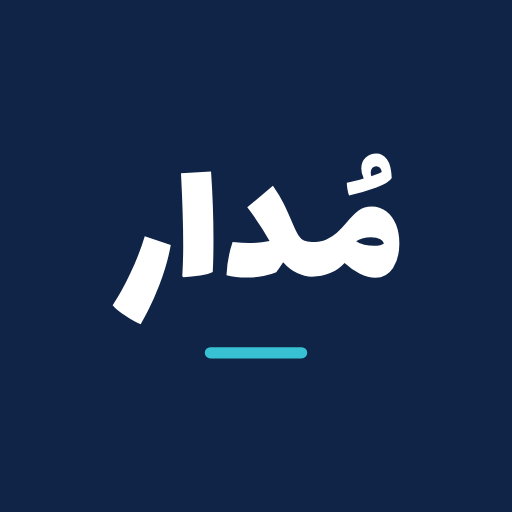
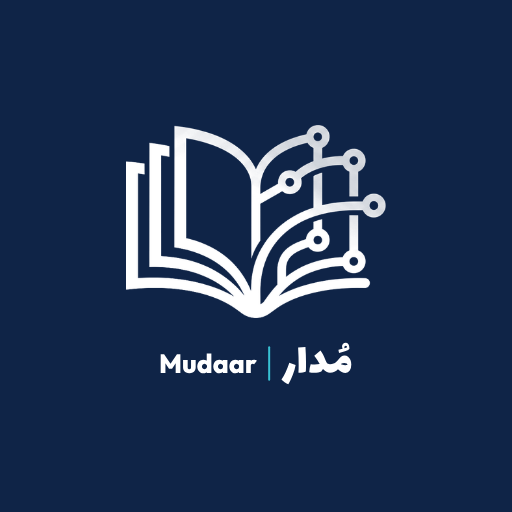
أيقونة التطبيق: الكتاب على كحلي، واسم المدرسة تحت الأيقونة
- أيقونة واحدة للتطبيقين (الكتاب وتحته مُدار | Mudaar)
- api/manifest.js: ملف التطبيق يتولّد حسب المدرسة (اسمها المختصر تحت الأيقونة)
- الآيفون: apple-mobile-web-app-title باسم المدرسة
- رابط التثبيت بقائمة الحساب يحمل معرّف المدرسة

Claude-Session: https://claude.ai/code/session_015Pb3w3Nfyxk8ErgHtgh7kQ

Changed region(s): [[0.2188, 0.2188, 0.7812, 0.6562], [0.3125, 0.6562, 0.6875, 0.75]]

diff --git a/install.html b/install.html
@@ -5,9 +5,11 @@
 <meta name="viewport" content="width=device-width, initial-scale=1.0, viewport-fit=cover" />
 <title>تثبيت مُدار</title>
 <link rel="manifest" id="app-manifest" href="manifest-staff.json">
+<meta name="apple-mobile-web-app-capable" content="yes">
+<meta name="apple-mobile-web-app-title" id="apple-title" content="مُدار">
 <meta name="theme-color" content="#0F2447">
 <link rel="icon" type="image/svg+xml" href="favicon.svg">
-<link rel="apple-touch-icon" href="icon-192.png?v=2">
+<link rel="apple-touch-icon" href="icon-192.png?v=3">
 <link rel="preconnect" href="https://fonts.googleapis.com">
 <link rel="preconnect" href="https://fonts.gstatic.com" crossorigin>
 <link href="https://fonts.googleapis.com/css2?family=Tajawal:wght@500;700;800&family=IBM+Plex+Sans+Arabic:wght@400;500;600&display=swap" rel="stylesheet">
@@ -209,8 +211,19 @@
   const isParent = qs.get('app') === 'parent';
   const school = qs.get('school');
   const target = isParent ? 'parent.html' + (school ? '?school=' + encodeURIComponent(school) : '') : 'index.html';
+  // ملف التطبيق حسب المدرسة: اسم المدرسة تحت الأيقونة
+  if (school) document.getElementById('app-manifest').href = '/api/manifest?app=' + (isParent ? 'parent' : 'staff') + '&school=' + encodeURIComponent(school);
+  if (school && !isParent) {
+    fetch('https://sovfrlvcvcyjcyauurpl.supabase.co/rest/v1/schools?select=name,branding&slug=eq.' + encodeURIComponent(school),
+      { headers: { apikey: 'sb_publishable_jWUr3tDZL-Bg_Qjr-iH5bg_xSEipTmA' } })
+      .then(r => r.ok ? r.json() : []).then(rows => {
+        const sc = rows && rows[0]; if (!sc) return;
+        const t = (sc.branding && sc.branding.short_name) || sc.name;
+        const at = document.getElementById('apple-title'); if (at) at.setAttribute('content', t);
+      }).catch(() => {});
+  }
   if (isParent) {
-    document.getElementById('app-manifest').href = 'manifest-parent.json';
+    if (!school) document.getElementById('app-manifest').href = 'manifest-parent.json';
     document.body.classList.add('is-parent');
     document.title = 'تثبيت لوحة تحكم مدرستك';
     ['h-title', 'p-title'].forEach(id => { document.getElementById(id).textContent = 'ثبّت لوحة تحكم مدرستك على جوالك'; });
@@ -225,7 +238,7 @@
     stack.appendChild(word);
     document.getElementById('p-credit').classList.remove('hidden');
     document.querySelector('link[rel="icon"]').href = 'parent-favicon.svg';
-    document.querySelector('link[rel="apple-touch-icon"]').href = 'icon-parent-192.png?v=2';
+    document.querySelector('link[rel="apple-touch-icon"]').href = 'icon-parent-192.png?v=3';
     const setLogo = (src, cls, alt) => ['h-logo', 'p-logo'].forEach(id => {
       const el = document.getElementById(id); el.src = src; el.alt = alt; el.className = cls;
     });
@@ -240,6 +253,7 @@
           if (!sc) return;
           document.title = 'تثبيت لوحة تحكم ' + sc.name;
           document.getElementById('p-sub').textContent = sc.name;
+          const at = document.getElementById('apple-title'); if (at) at.setAttribute('content', (sc.branding && sc.branding.short_name) || sc.name);
           const logo = (sc.branding && sc.branding.school_logo) || null;
           if (logo) setLogo(logo, 'school-logo', 'شعار ' + sc.name);
         }).catch(() => {});

diff --git a/api/manifest.js b/api/manifest.js
@@ -1,0 +1,45 @@
+// ملف التطبيق (manifest) حسب المدرسة: اسم التطبيق تحت الأيقونة = اسم المدرسة المختصر
+// /api/manifest?app=staff|parent&school=slug
+const SUPABASE_URL = process.env.SUPABASE_URL || 'https://sovfrlvcvcyjcyauurpl.supabase.co';
+const ANON_KEY = 'sb_publishable_jWUr3tDZL-Bg_Qjr-iH5bg_xSEipTmA'; // نفس المفتاح العام المستخدم بالصفحات
+
+async function schoolBySlug(slug) {
+  if (!slug || !/^[a-z0-9-]{1,60}$/i.test(slug)) return null;
+  try {
+    const r = await fetch(`${SUPABASE_URL}/rest/v1/schools?slug=eq.${encodeURIComponent(slug)}&select=name,slug,branding`, { headers: { apikey: ANON_KEY } });
+    if (!r.ok) return null;
+    const rows = await r.json();
+    return rows && rows[0] ? rows[0] : null;
+  } catch (e) { return null; }
+}
+
+module.exports = async (req, res) => {
+  const q = req.query || {};
+  const isParent = q.app === 'parent';
+  const sc = await schoolBySlug(String(q.school || ''));
+  const short = sc ? ((sc.branding && sc.branding.short_name) || sc.name) : '';
+  const slugQs = sc ? '?school=' + encodeURIComponent(sc.slug) : '';
+  const icon = isParent ? 'icon-parent' : 'icon';
+  const manifest = {
+    id: isParent ? '/parent.html' + slugQs : '/index.html' + slugQs,
+    name: short ? (isParent ? `خطة الأسبوع - ${short}` : short) : (isParent ? 'خطة الأسبوع' : 'مُدار'),
+    short_name: short || (isParent ? 'خطة الأسبوع' : 'مُدار'),
+    description: isParent ? 'متابعة الخطة الأسبوعية والجدول الدراسي لولي الأمر' : 'منصة المعلمين والإدارة لخدمات المدرسة',
+    start_url: isParent ? '/parent.html' + slugQs : '/index.html',
+    scope: '/',
+    display: 'standalone',
+    orientation: 'portrait-primary',
+    background_color: '#0F2447',
+    theme_color: '#0F2447',
+    dir: 'rtl',
+    lang: 'ar',
+    icons: [
+      { src: `/${icon}-192.png?v=3`, sizes: '192x192', type: 'image/png', purpose: 'any' },
+      { src: `/${icon}-512.png?v=3`, sizes: '512x512', type: 'image/png', purpose: 'any' },
+      { src: `/${icon}-512.png?v=3`, sizes: '512x512', type: 'image/png', purpose: 'maskable' },
+    ],
+  };
+  res.setHeader('Content-Type', 'application/manifest+json; charset=utf-8');
+  res.setHeader('Cache-Control', 'public, max-age=300, s-maxage=300');
+  res.status(200).send(JSON.stringify(manifest));
+};

diff --git a/index.html b/index.html
@@ -4,10 +4,12 @@
 <meta charset="UTF-8" />
 <meta name="viewport" content="width=device-width, initial-scale=1.0" />
 <title>مُدار</title>
-<link rel="manifest" href="manifest-staff.json">
+<link rel="manifest" id="app-manifest" href="manifest-staff.json">
+<meta name="apple-mobile-web-app-capable" content="yes">
+<meta name="apple-mobile-web-app-title" id="apple-title" content="مُدار">
 <meta name="theme-color" content="#0F2447">
 <link rel="icon" type="image/svg+xml" href="favicon.svg">
-<link rel="apple-touch-icon" href="icon-192.png?v=2">
+<link rel="apple-touch-icon" href="icon-192.png?v=3">
 <link rel="preconnect" href="https://fonts.googleapis.com">
 <link rel="preconnect" href="https://fonts.gstatic.com" crossorigin>
 <link href="https://fonts.googleapis.com/css2?family=Tajawal:wght@500;700;800&family=IBM+Plex+Sans+Arabic:wght@400;500;600&display=swap" rel="stylesheet">
@@ -135,7 +137,7 @@
               <svg width="17" height="17" viewBox="0 0 24 24" fill="none" stroke="currentColor" stroke-width="2" stroke-linecap="round" stroke-linejoin="round"><path d="M18 8a6 6 0 00-12 0c0 7-3 9-3 9h18s-3-2-3-9"/><path d="M13.73 21a2 2 0 01-3.46 0"/></svg>
               <span id="push-toggle-label">تفعيل الإشعارات على الجوال</span>
             </button>
-            <a class="um-item" href="install.html" target="_blank" rel="noopener" role="menuitem" style="text-decoration:none;">
+            <a class="um-item" id="um-install-link" href="install.html" target="_blank" rel="noopener" role="menuitem" style="text-decoration:none;">
               <svg width="17" height="17" viewBox="0 0 24 24" fill="none" stroke="currentColor" stroke-width="2" stroke-linecap="round" stroke-linejoin="round"><rect x="6" y="2" width="12" height="20" rx="2.5"/><path d="M12 7v7M9 11l3 3 3-3"/></svg>
               تثبيت التطبيق على الجوال
             </a>

diff --git a/parent.html b/parent.html
@@ -4,10 +4,15 @@
 <meta charset="UTF-8" />
 <meta name="viewport" content="width=device-width, initial-scale=1.0" />
 <title>خطة الأسبوع</title>
-<link rel="manifest" href="manifest-parent.json">
+<link rel="manifest" id="app-manifest" href="manifest-parent.json">
+<meta name="apple-mobile-web-app-capable" content="yes">
+<meta name="apple-mobile-web-app-title" id="apple-title" content="خطة الأسبوع">
+<script>/* اسم التطبيق تحت الأيقونة = اسم المدرسة */
+(function () { var s = new URLSearchParams(location.search).get('school') || 'al-murooj';
+  document.getElementById('app-manifest').href = '/api/manifest?app=parent&school=' + encodeURIComponent(s); })();</script>
 <meta name="theme-color" content="#2455A4">
 <link rel="icon" type="image/svg+xml" href="parent-favicon.svg">
-<link rel="apple-touch-icon" href="icon-parent-192.png?v=2">
+<link rel="apple-touch-icon" href="icon-parent-192.png?v=3">
 <link rel="preconnect" href="https://fonts.googleapis.com">
 <link rel="preconnect" href="https://fonts.gstatic.com" crossorigin>
 <link href="https://fonts.googleapis.com/css2?family=Tajawal:wght@500;700;800;900&family=IBM+Plex+Sans+Arabic:wght@400;500;600;700&display=swap" rel="stylesheet">
@@ -485,6 +490,8 @@ async function resolveSchool() {
     const nameEl = document.getElementById('hero-school-name');
     if (nameEl) nameEl.textContent = data.name;
     document.title = 'خطة الأسبوع - ' + data.name;
+    const appTitle = document.getElementById('apple-title');
+    if (appTitle) appTitle.setAttribute('content', (data.branding && data.branding.short_name) || data.name);
     // شعار المدرسة لو مرفوع، وإلا شعار الكتاب (وتحته مُدار صغير)
     const logo = (data.branding && data.branding.school_logo) || null;
     const logoEl = document.getElementById('hero-logo');

diff --git a/js/core.js b/js/core.js
@@ -308,6 +308,15 @@ export function applyBrandToShell() {
   }
   if (span) span.textContent = schoolBrand.short;
   document.title = pageTitle(lastPageTitle);
+  // التطبيق المثبّت يحمل اسم المدرسة تحت الأيقونة (ملف التطبيق يتولّد حسب المدرسة)
+  if (schoolBrand.slug) {
+    const mf = document.getElementById('app-manifest');
+    if (mf) mf.href = '/api/manifest?app=staff&school=' + encodeURIComponent(schoolBrand.slug);
+    const at = document.getElementById('apple-title');
+    if (at) at.setAttribute('content', schoolBrand.short || PLATFORM_NAME);
+    const il = document.getElementById('um-install-link');
+    if (il) il.href = 'install.html?school=' + encodeURIComponent(schoolBrand.slug);
+  }
 }
 // عنوان تبويب المتصفح: الصفحة الحالية - اسم المدرسة المختصر (أو اسم المنصة)
 let lastPageTitle = '';

diff --git a/sw.js b/sw.js
@@ -23,8 +23,8 @@ self.addEventListener('push', (event) => {
   const isParent = d.audience === 'parent';
   event.waitUntil(self.registration.showNotification(d.title || (isParent ? 'خطة الأسبوع' : 'مُدار'), {
     body: d.body || '',
-    icon: isParent ? 'icon-parent-192.png?v=2' : 'icon-192.png?v=2',
-    badge: isParent ? 'icon-parent-192.png?v=2' : 'icon-192.png?v=2',
+    icon: isParent ? 'icon-parent-192.png?v=3' : 'icon-192.png?v=3',
+    badge: isParent ? 'icon-parent-192.png?v=3' : 'icon-192.png?v=3',
     tag: d.tag || undefined,
     renotify: !!d.tag,
     dir: 'rtl',
